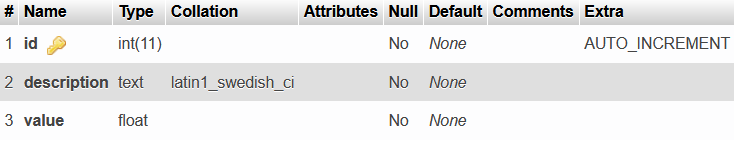
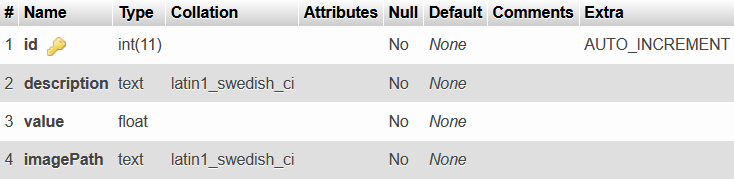
Change structure of products table (#5)
* modify DTO product specification

* change structure of database

* modify README.md

diff --git a/src/schema/ProductDTO.ts b/src/schema/ProductDTO.ts
@@ -1,22 +1,22 @@
 import { IProductDTO } from '../interfaces/IProductDTO';
 
 export class ProductDTO implements IProductDTO {
-    private id: number;
     private description: string;
     private value: number;
+    private imagePath: string;
 
-    constructor(id: number, description: string, value: number) {
-        this.id = id;
+    constructor(description: string, value: number, imagePath: string) {
         this.description = description;
         this.value = value;
+        this.imagePath = imagePath;
     }
 
-    getId(): number {
-        return this.id;
+    getImagePath(): string {
+        return this.imagePath;   
     }
 
-    setId(id: number) {
-        this.id = id;
+    setImagePath(path: string) {
+        this.imagePath = path;
     }
 
     getDescription(): string {

diff --git a/src/utils/isProduct.ts b/src/utils/isProduct.ts
@@ -1,6 +1,7 @@
 export const isProduct = (object: any): boolean => {
-    if ('description' in object  && 'value' in object)
-        return typeof object.description === 'string' && typeof object.value === 'number';
+    if ('description' in object  && 'value' in object && 'imagePath' in object)
+        return typeof object.description === 'string' && typeof object.value === 'number' &&
+            typeof object.imagePath === 'string';
         
     return false;
 }

diff --git a/src/schema/Database.ts b/src/schema/Database.ts
@@ -100,7 +100,7 @@ export class Database {
     }
 
     createRegister(tableName: string, obj: object): Promise<string> {
-        const insertQuery = `INSERT INTO ${tableName} VALUES (NULL, ?, ?)`;
+        const insertQuery = `INSERT INTO ${tableName} VALUES (NULL, ?, ?, ?)`;
         const query = mysql.format(insertQuery, Object.values(obj));
 
         return this.getMessagePromise(query, `Item created successfully at ${tableName}!`);

diff --git a/src/schema/ProductMapper.ts b/src/schema/ProductMapper.ts
@@ -4,7 +4,7 @@ import { ProductDTO } from './ProductDTO';
 export class ProductMapper {
     static toDTO(product: any): IProductDTO | null {
         try {
-            return new ProductDTO(product.id, product.description, product.value);
+            return new ProductDTO(product.description, product.value, product.imagePath);
         } catch {
             return null;
         }

diff --git a/src/interfaces/IProductDTO.ts b/src/interfaces/IProductDTO.ts
@@ -1,5 +1,5 @@
 export interface IProductDTO {
-    getId(): number;
     getDescription(): string;
     getValue(): number;
+    getImagePath(): string;
 }

diff --git a/README.md b/README.md
@@ -17,6 +17,7 @@ CREATE TABLE products(
     id INT(11) NOT NULL AUTO_INCREMENT,
     description TEXT NOT NULL,
     value FLOAT NOT NULL,
+    imagePath TEXT NOT NULL,
     PRIMARY KEY (id)
 )
 ```
@@ -26,7 +27,7 @@ La información necesaria para establecer la conexión se configura en `config/.
 
 Una vez iniciado **MySQL**, al ejecutar el comando que se muestra abajo en la raíz del proyecto debería mostrarse un mensaje como `server init in port 3000`, en caso de que todo funcione correctamente:
 ```Bash
-npm run prod
+npm run build
 ```
 Luego de esto ya se pueden efectuar peticiones a la API en `localhost:3000/` desde cualquier cliente HTTP.
 
